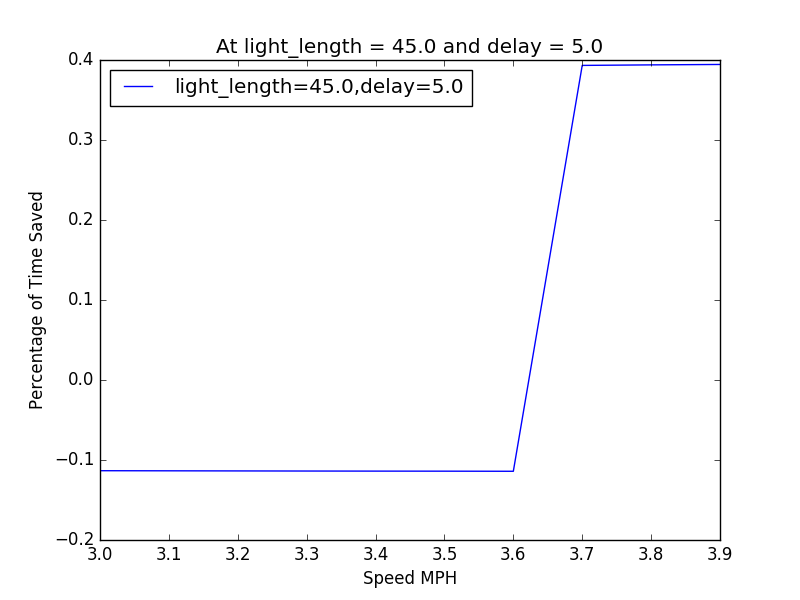
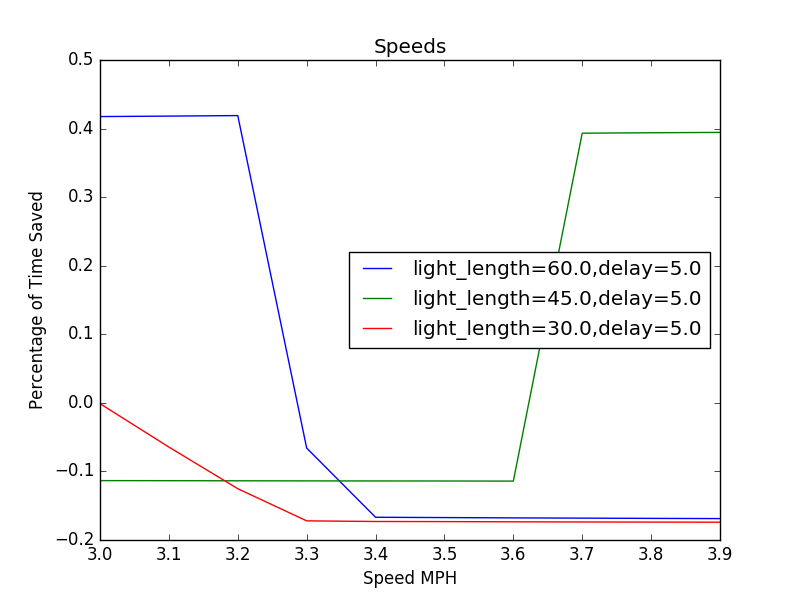
Increase Resultion, plot more things on speed graph

diff --git a/plot.py b/plot.py
@@ -71,26 +71,38 @@ def plot_light(desired_speed):
     plt.ylabel("Percentage of Time Saved")
     plt.savefig("img/durations_speed_%s.png" % desired_speed)
 
-def plot_speed(desired_light, desired_delay):
+
+def plot_speed(args):
+    """
+    :param args:  A set of (light_length, delay) tuples
+    :return:
+    """
     plt.cla()
     plt.clf()
-    speeds = {'x':[], 'y':[]}
+    speeds = {}
     for i in xrange(len(data)):
         row = [float(x.strip()) for x in data[i].split(',')]
         speed = row[0]
         delay = row[1]
         light_length = row[2]
-        if delay != desired_delay or light_length != desired_light:
+        key = (light_length, delay)
+        if key not in args:
             continue
         percent = row[-1]
-        speeds['x'].append(speed)
-        speeds['y'].append(percent)
+        if key not in speeds:
+            speeds[key] = {'x': [], 'y': []}
+        speeds[key]['x'].append(speed)
+        speeds[key]['y'].append(percent)
+
 
     plots = []
-    title = "light_length=%s,delay=%s" % (desired_light, desired_delay)
-    plot(title, speeds['x'], speeds['y'], plots)
+    for x in speeds.keys():
+        if x not in args:
+            continue
+        title = "light_length=%s,delay=%s" % x
+        plot(title, speeds[x]['x'], speeds[x]['y'], plots)
     plt.legend(tuple([x[0] for x in plots]), tuple([x[1] for x in plots]), loc='best')
-    plt.title("At light_length = %s and delay = %s" % (desired_light, desired_delay))
+    plt.title("Speeds")
     plt.xlabel("Speed MPH")
     plt.ylabel("Percentage of Time Saved")
     plt.savefig("img/speed_vs_time.png")
@@ -101,7 +113,7 @@ def main():
     plot_delay(4.0)
     plot_light(3.1)
     plot_light(4.0)
-    plot_speed(45.0, 5.0)
+    plot_speed({(40.0, 5.0), (45, 5.0), (50, 5.0)})
 
 
 if __name__ == "__main__":

diff --git a/simulator.py b/simulator.py
@@ -16,7 +16,7 @@ DELAY_STEP = 1
 # Assume Symmetric Lights -- This is wrong and implementation already exists for specific red/green lengths
 LIGHT_LENGTH_MIN = 30
 LIGHT_LENGTH_MAX = 90
-LIGHT_LENGTH_STEP = 15
+LIGHT_LENGTH_STEP = 5
 
 # Used for double precision issues
 DELTA = 0.001
